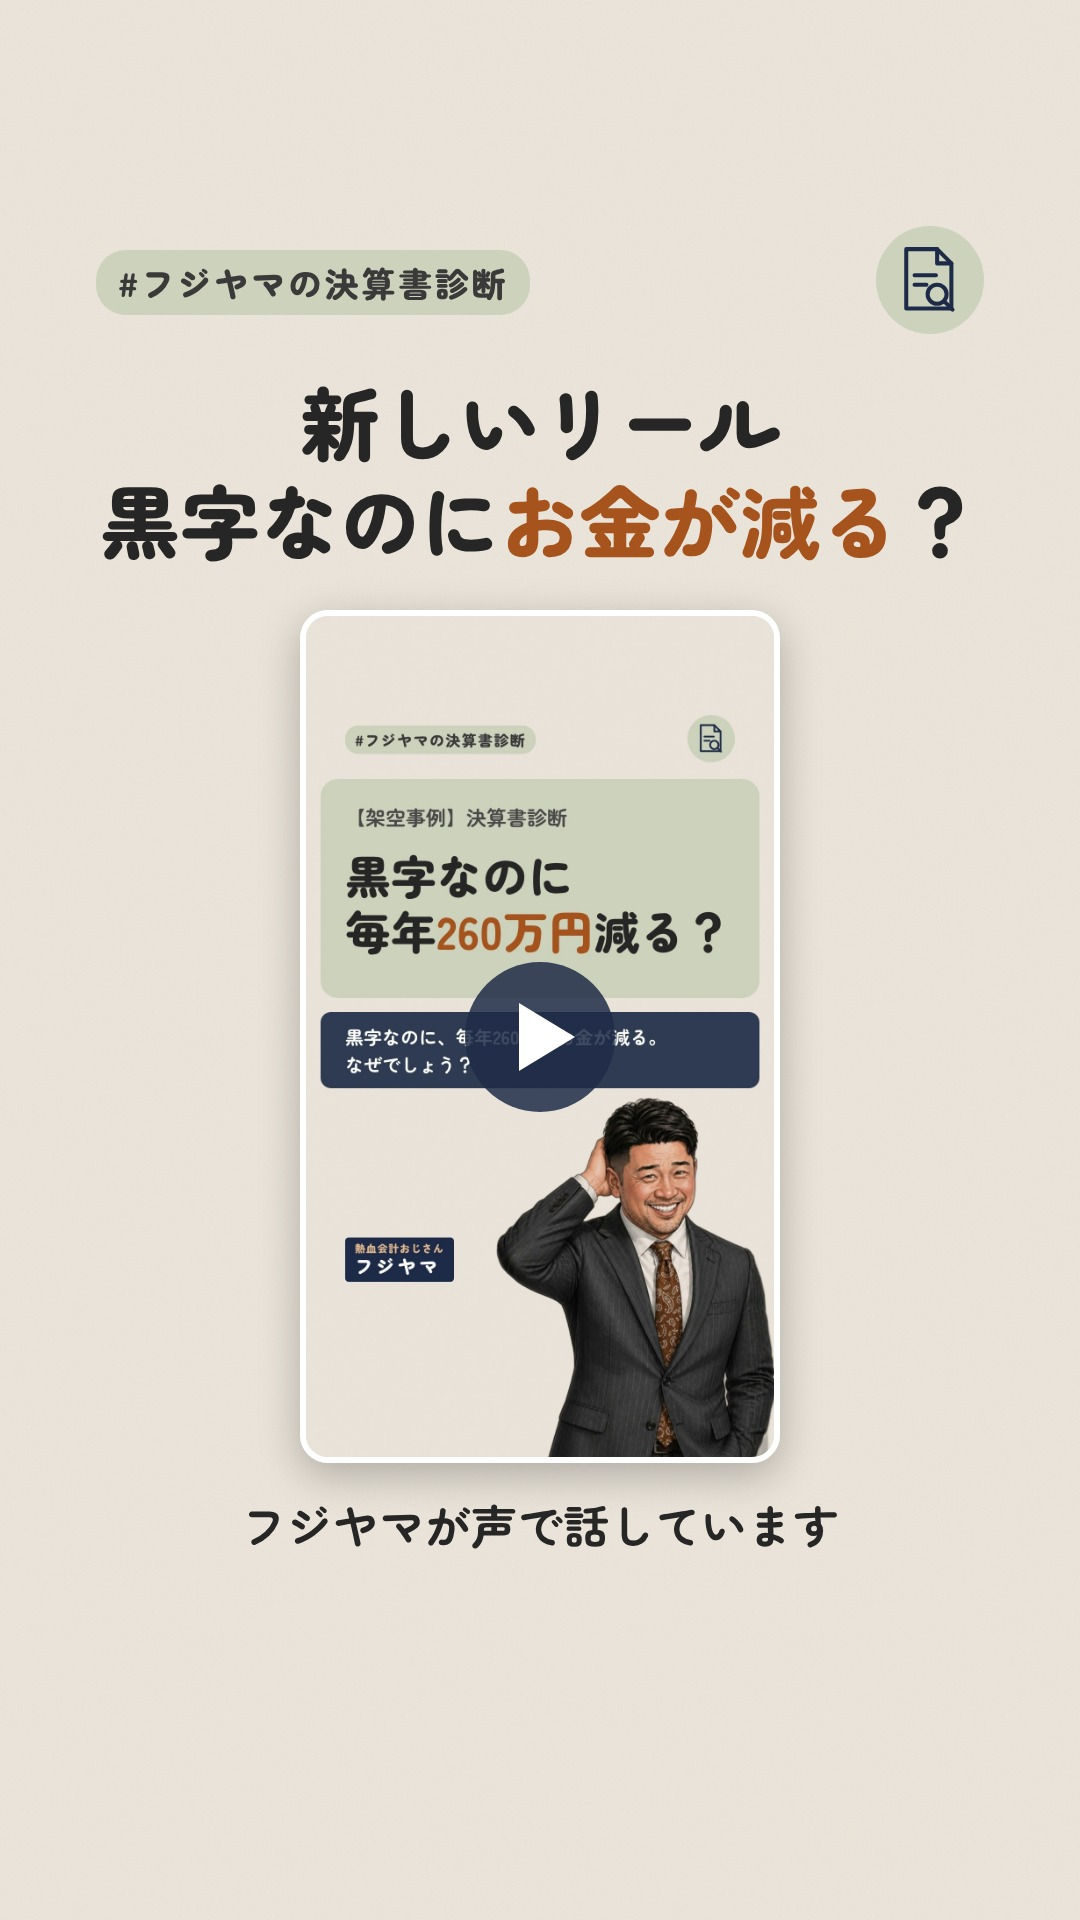
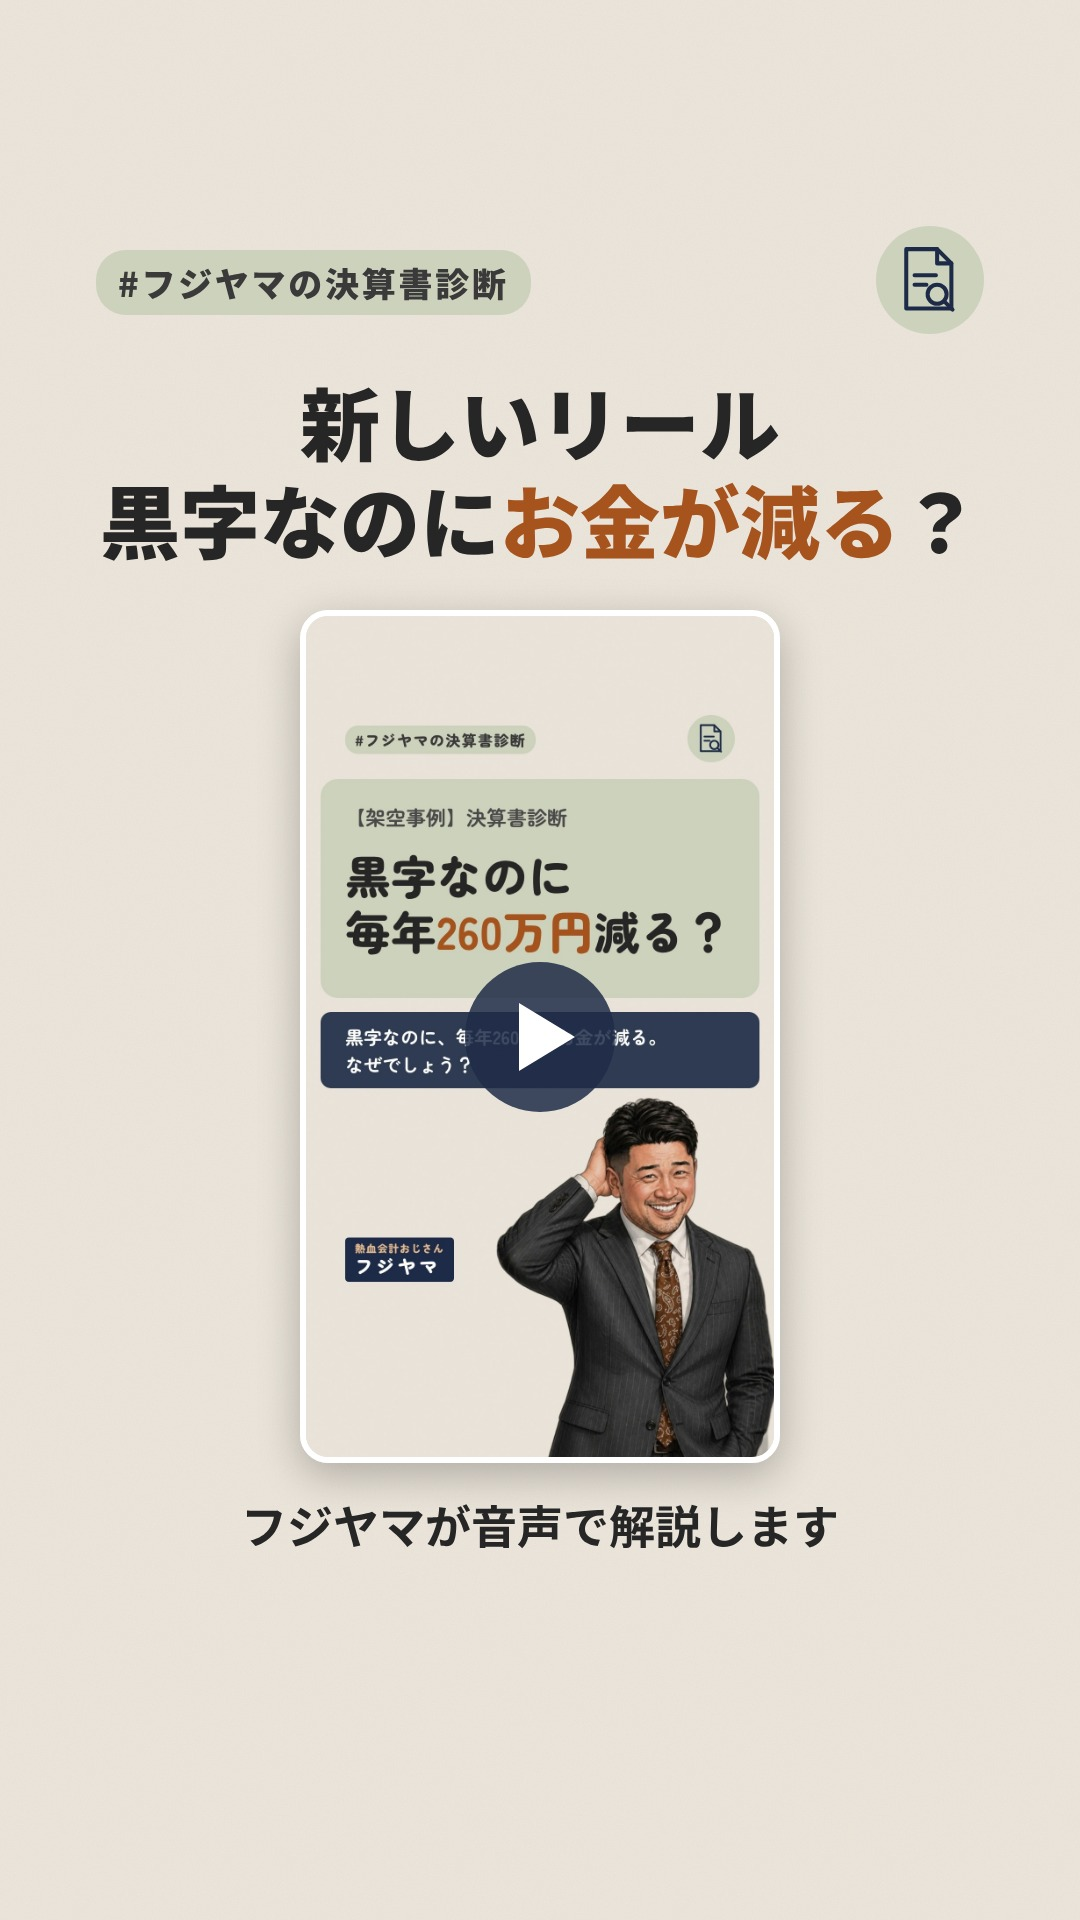
ストーリーズ表記を「フジヤマが音声で解説します」に変更（IG-REEL-20261023/20261025・仕様書）

diff --git a/kit/STORY_REEL_SPEC.md b/kit/STORY_REEL_SPEC.md
@@ -22,7 +22,7 @@
 - points：2枚目。要点3つ（1行18文字以内）
 - cta：3枚目。投稿への誘導と保存・LINEの案内（CTA文言は管理シート「設定」の「CTA文言」と一致させる）
 - 3枚とも別のポーズ。その日のカルーセルと同じポーズは避ける
-- リールの日は2枚：1枚目 `{"type":"reel","heading":"新しいリール<br>…秒で解説","sub":"フジヤマが声で話しています"}`（ポーズ不要。reel_cover.jpg を自動で使う）、2枚目は cta
+- リールの日は2枚：1枚目 `{"type":"reel","heading":"新しいリール<br>…秒で解説","sub":"フジヤマが音声で解説します"}`（ポーズ不要。reel_cover.jpg を自動で使う）、2枚目は cta
 - 配置は全フレームで固定（2026-10-13）：タグと丸アイコンは上250px、色ブロックは上372pxから、文字は左右80px、人物は高さ820pxで体の中心をx=760にそろえる。フレームごとに位置を変えない
 - `python3 kit/render_story.py posts/<ID>/story.json` → story_1.jpg〜story_3.jpg・story_contact.png・story_report.json（warnings は空にする）
 
